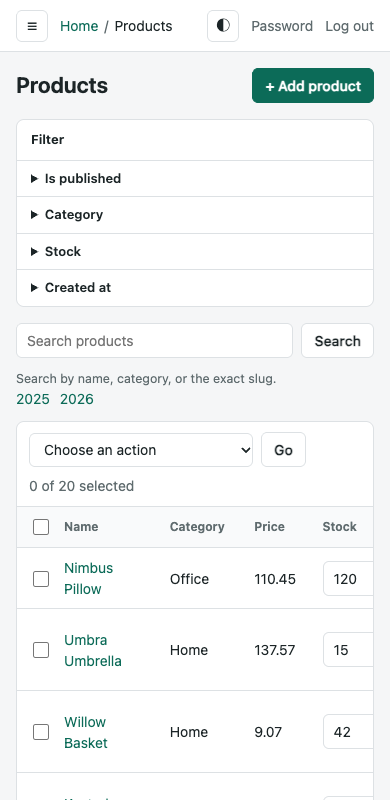
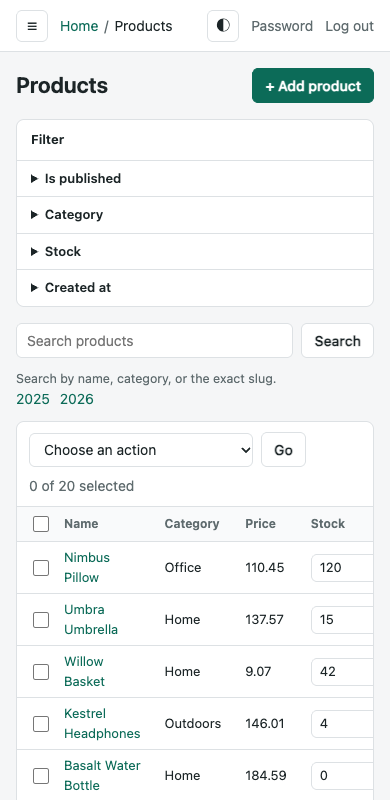
style: make tables and list rows more compact

diff --git a/src/fastapi_panel/static/panel.css b/src/fastapi_panel/static/panel.css
@@ -216,7 +216,7 @@ input[type="checkbox"] { width: 16px; height: 16px; accent-color: var(--accent);
 
 /* Tables */
 .table-wrap { overflow-x: auto; }
-.table { width: 100%; border-collapse: collapse; }
+.table { width: 100%; border-collapse: collapse; font-size: 13px; }
 .table th, .table td {
   text-align: start; padding: 9px 12px; border-bottom: 1px solid var(--border); vertical-align: middle;
 }
@@ -229,7 +229,8 @@ input[type="checkbox"] { width: 16px; height: 16px; accent-color: var(--accent);
 .table tbody tr:last-child > * { border-bottom: 0; }
 .table-list tbody tr:hover { background: var(--surface-alt); }
 .table-list tbody tr.selected { background: var(--accent-soft); }
-.table-list input:not([type="checkbox"]), .table-list select { width: 120px; }
+.table-list th, .table-list td { padding-block: 6px; }
+.table-list input:not([type="checkbox"]), .table-list select { width: 120px; min-height: 28px; padding: 3px 8px; }
 .align-end { text-align: end !important; white-space: nowrap; }
 .col-check { width: 36px; padding-inline-end: 0 !important; }
 .empty { text-align: center !important; padding: 40px 16px !important; color: var(--muted); }
